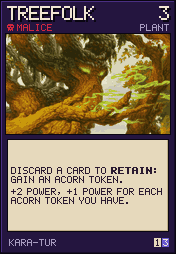
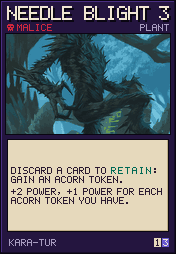
Stage NE-61: update Kara-Tur plants and Ivana portrait

diff --git a/Codex outputs/kara_ne61.md b/Codex outputs/kara_ne61.md
@@ -1,0 +1,16 @@
+# Stage NE-61: Kara-Tur follow-up
+
+| Card ID | Previous | Current | Copies |
+|---|---|---|---|
+| 49817 | Needle Blight | Treefolk | 3 |
+| 49819 | Shrieker Fungus | Tree Blight | 3 |
+| 49821 | Ivana Boritsi | Ivana Boritsi with new portrait | 1 |
+| 49814 | Treefolk | Needle Blight | 0 |
+
+Treefolk and Tree Blight use the owner's illustrations. Treefolk moves into the active slot and Needle Blight moves into reserve. Each card uses the abilities and cost of its slot.
+
+Ivana uses the portrait by WeirdUndead (Karina Refrynn) from [Borca in Ravenloft: The Horrors Within](https://www.dndbeyond.com/sources/dnd/rthw/borca#IvanaBoritsi). [Portrait file](https://5e.tools/img/book/RHW/049-04-003.ivana-boritsi.webp).
+
+[Russian cards and miniatures](kara_ne61_ru.png).
+
+Validation passed 2273 rule checks, 2375 catalog checks and 2868 localization term checks.
